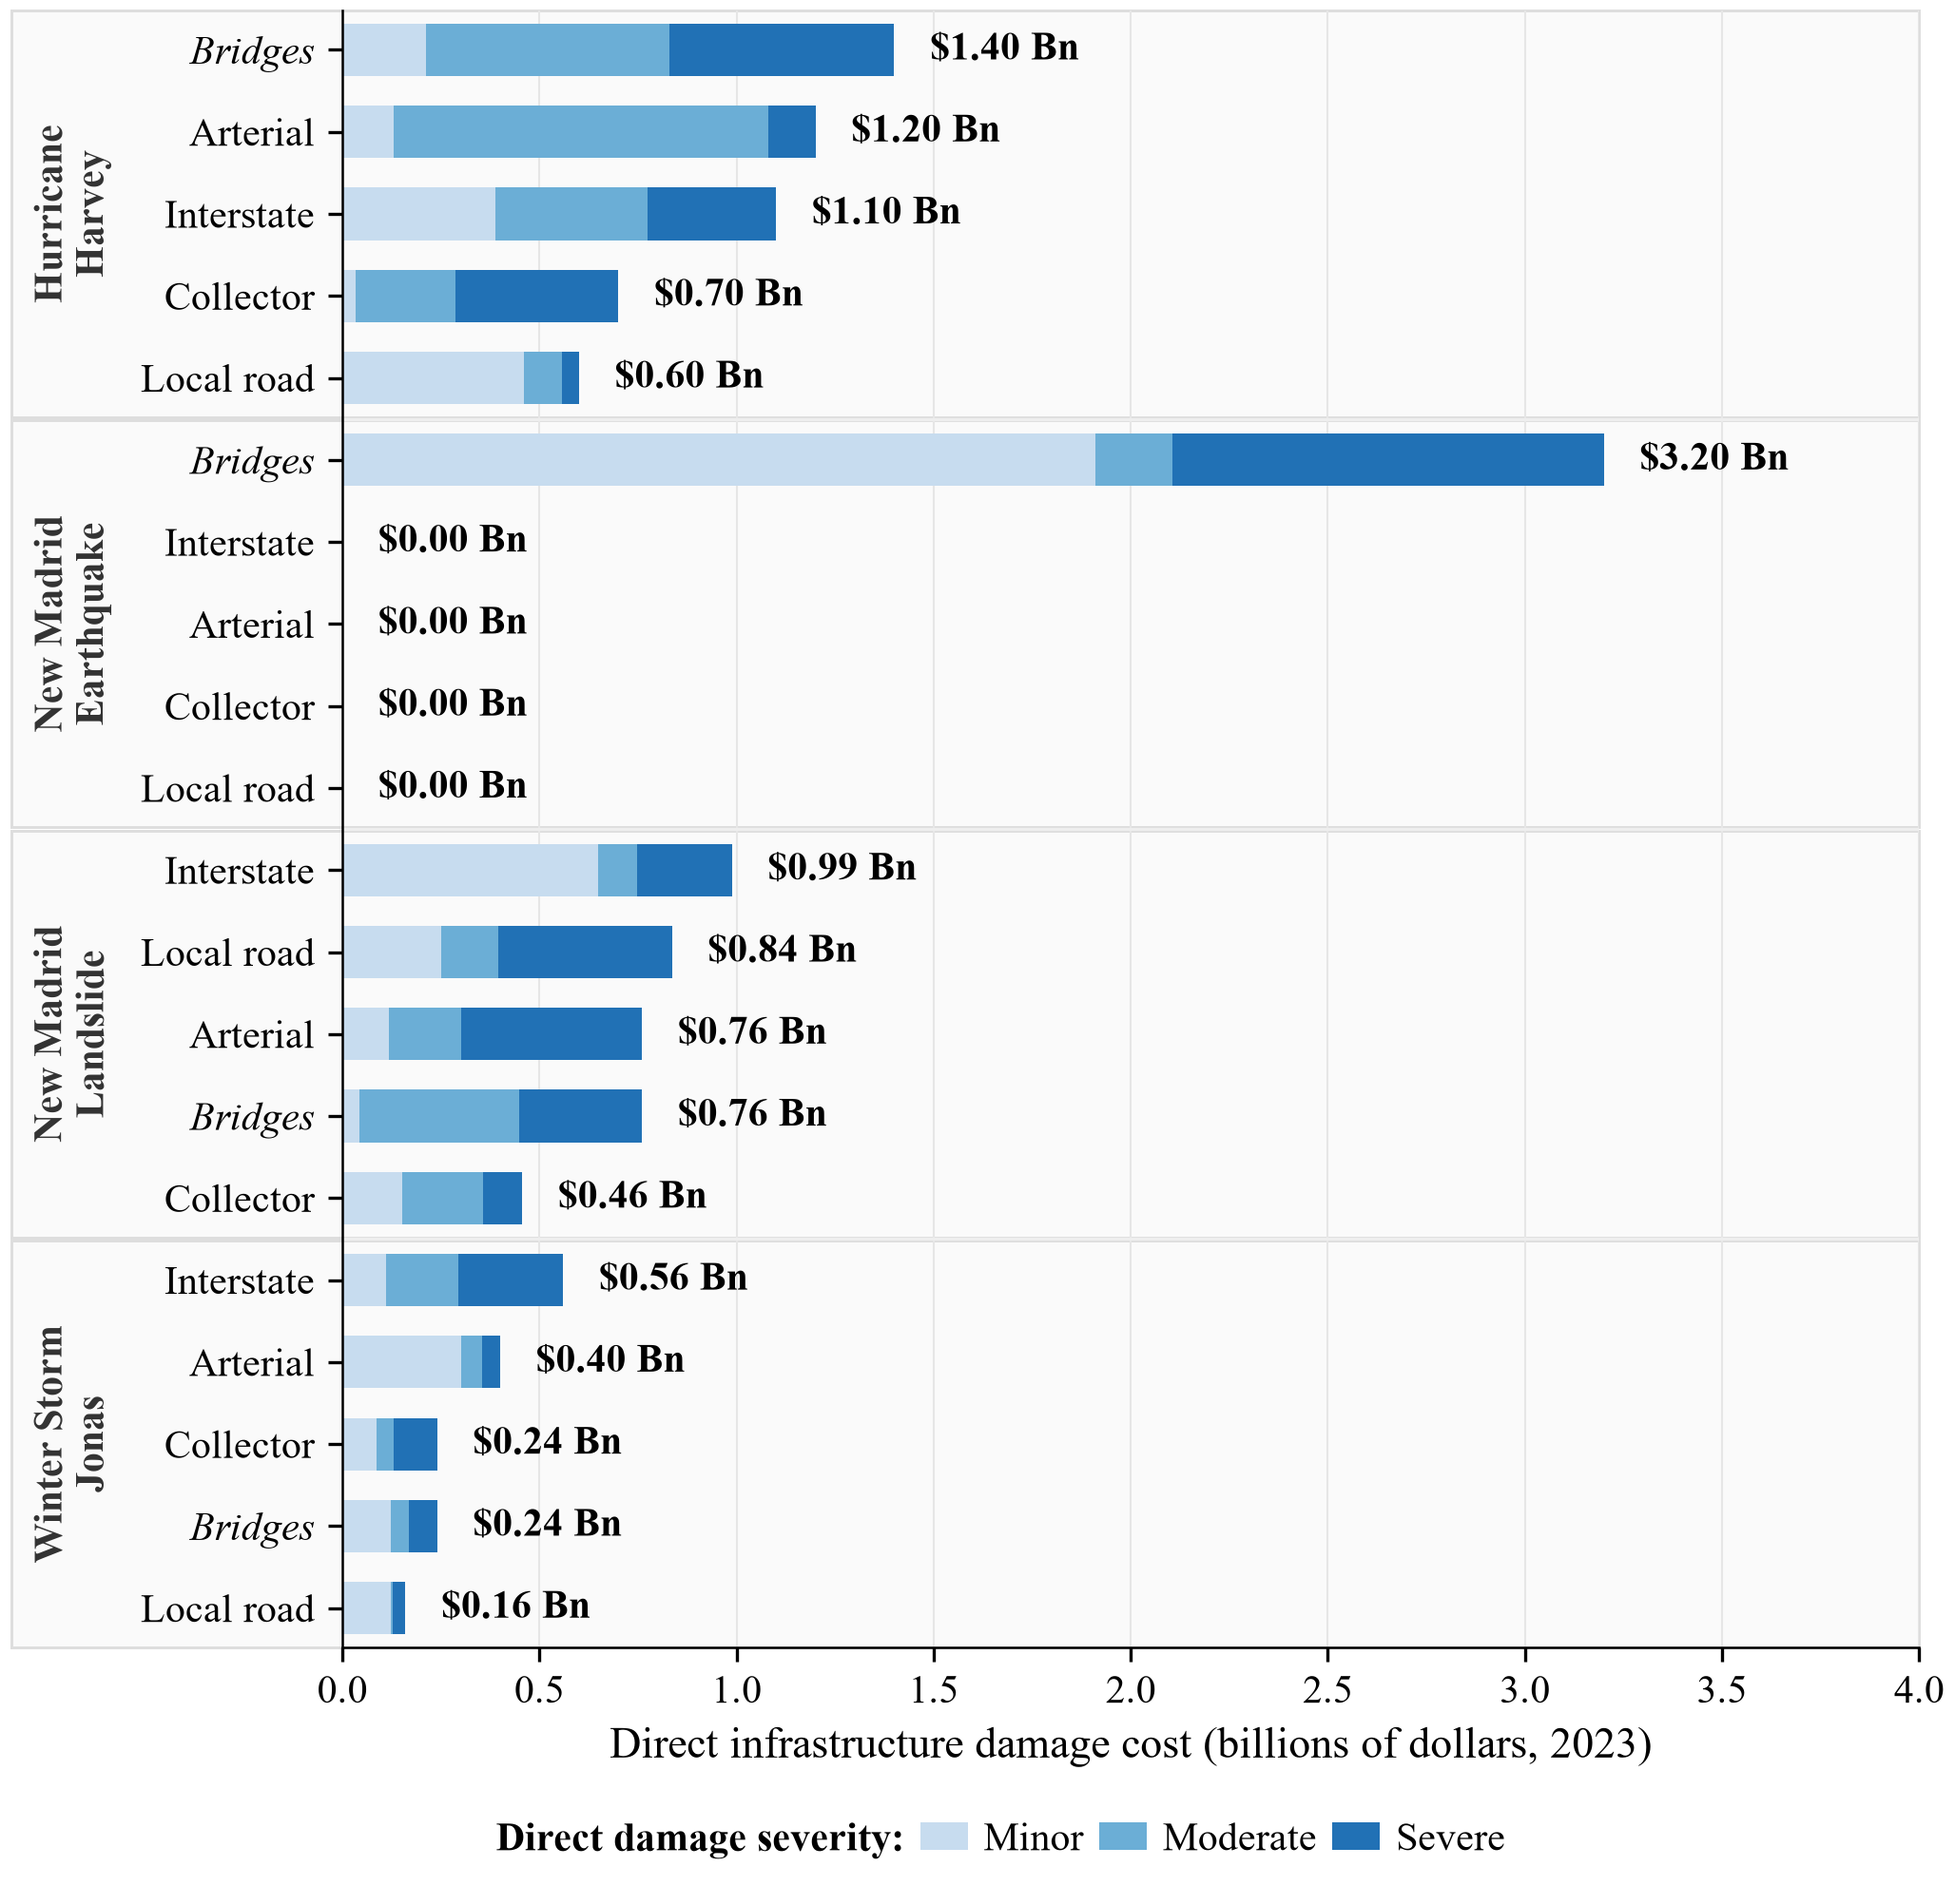
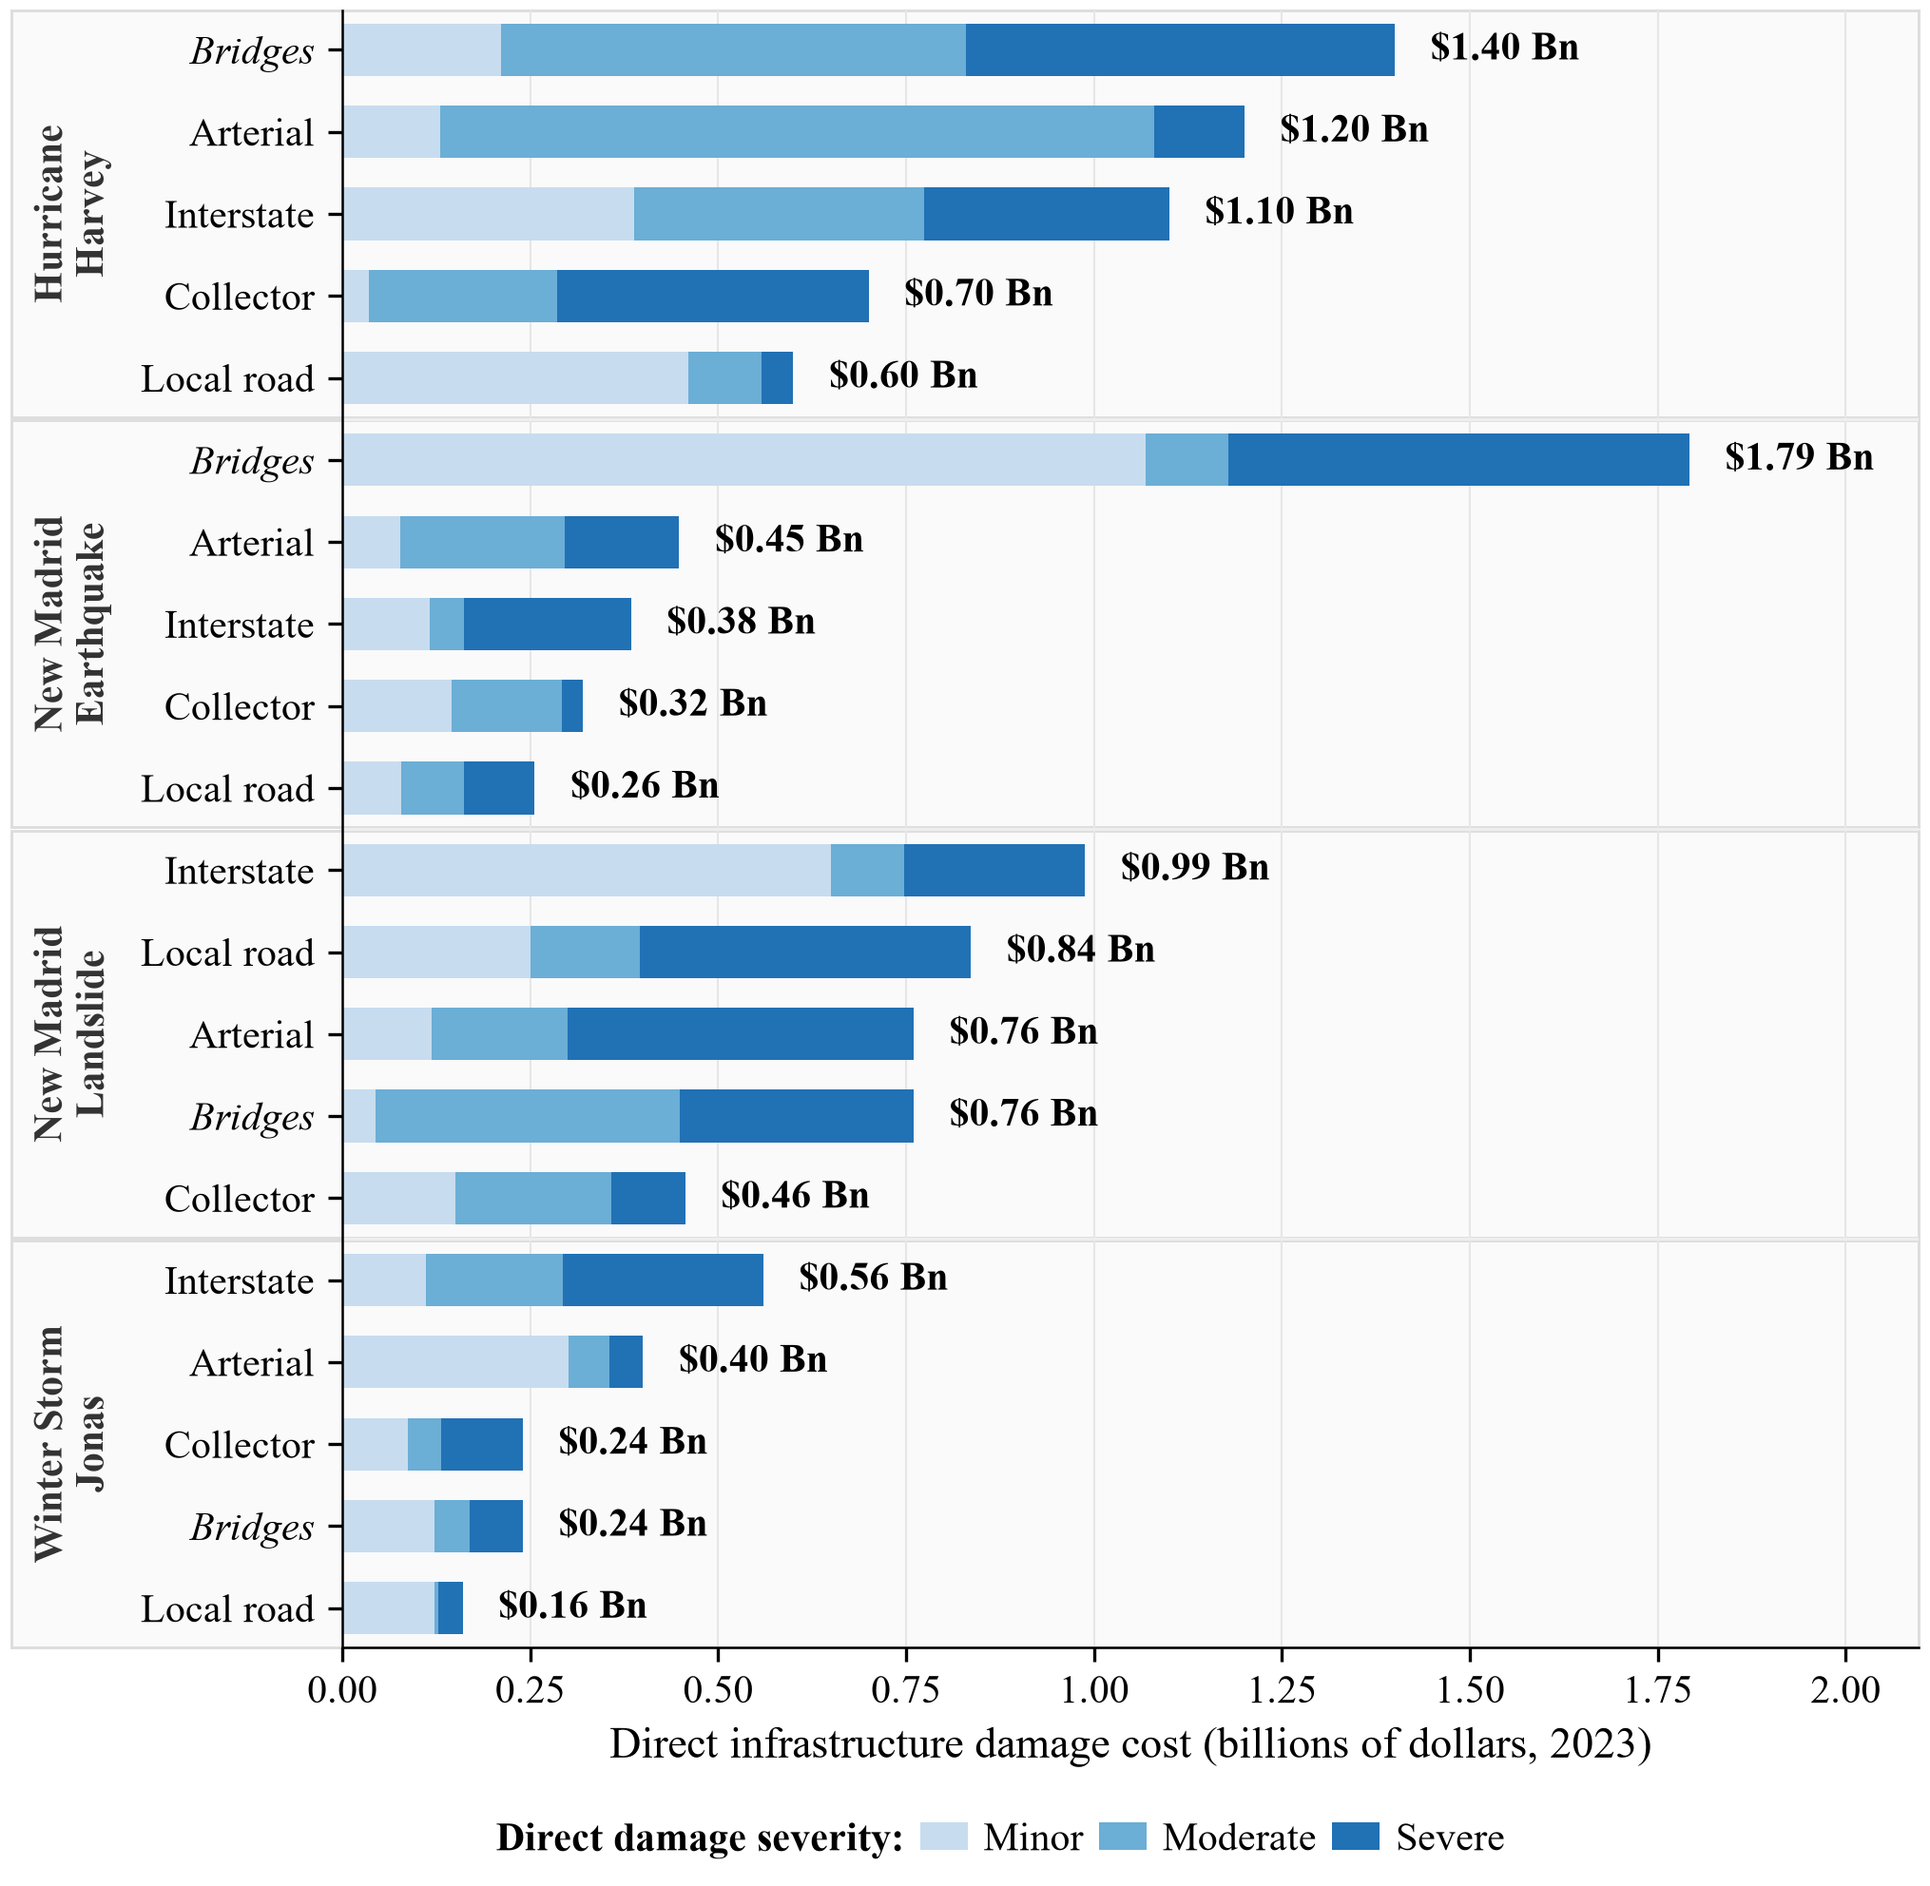
RQ1_1: show all road classes non-zero for earthquake; tighten axis; add generated CAPTIONS.md

diff --git a/results/viz/build_paper_final.py b/results/viz/build_paper_final.py
@@ -28,6 +28,21 @@ def build(modes):
         subprocess.run([sys.executable, str(HERE / 'build_advisor_package.py'), *BUILD_FLAGS[mode]], check=True, cwd=HERE)
 
 
+def write_captions(rows):
+    """Caption sheet for writing, generated from the registry (figure values are placeholders)."""
+    out = ['# Caption sheet for writing (generated from visual_registry.csv; values in the figures are PLACEHOLDERS)\n']
+    for fig, group in rows.groupby('paper_figure', sort=True):
+        out.append(f'\n## {fig}  ({fig}.pdf / {fig}.png)\n')
+        for _, r in group.iterrows():
+            names = ' | '.join(reg.titles(r)) or r.title
+            caveat = r.caveats.split('UPDATE')[-1].strip()[:700]
+            out.append(f'\n- **Panel(s) {r.paper_panel or "-"}: {names}**\n'
+                       f'  - Caption draft: {r.caption}\n'
+                       f'  - Dollar basis: axis {r.axis_dollar_year}; {r.dollar_year_by_component[:300]}\n'
+                       f'  - State in text: {caveat}\n')
+    (FINAL / 'CAPTIONS.md').write_text(''.join(out), encoding='utf-8')
+
+
 def main():
     rows = reg.paper_rows()
     unknown = sorted(set(rows.paper_template) - set(TEMPLATES))
@@ -47,6 +62,7 @@ def main():
                                  build=mode, titles=' | '.join(reg.titles(r)), status=r.status,
                                  axis_dollar_year=r.axis_dollar_year, built=datetime.now().strftime('%Y-%m-%d %H:%M')))
     pd.DataFrame(manifest).to_csv(FINAL / 'MANIFEST.csv', index=False)
+    write_captions(rows)
     print(f'{len(rows)} panel rows -> {FINAL}')
 
 

diff --git a/results/viz/figlib/synthetic_model.py b/results/viz/figlib/synthetic_model.py
@@ -3,7 +3,7 @@
 Every placeholder figure draws from the same per-event totals, so the sheets reconcile by construction:
   total(event)            = direct + cumulative 90-day indirect (rerouting + isolation, passenger + freight)
   RQ1_1 class bars        sum to direct(event); road classes exclude bridge structures (asset split first),
-                          earthquake roads are $0 by design (bridges only); 'Severe' = severe + extensive
+                          every class shown non-zero for now (the model's earthquake road damage is $0 by design, bridges only: revisit); 'Severe' = severe + extensive
   RQ1_2(A) state bars     are the leading states' direct damage (mean with min-max damage-ratio range)
   RQ1_2(B)                = RQ2(B) state sum (states + Rest) = direct + indirect
   RQ2(A) mode bars        sum to the event's indirect cost; Toll is $0 and dropped
@@ -32,7 +32,7 @@ INDIRECT = {
 }
 CLASS_SHARE = {
     "Hurricane Harvey": (.22, .24, .14, .12, .28),
-    "New Madrid Earthquake": (0, 0, 0, 0, 1.0),
+    "New Madrid Earthquake": (.12, .14, .10, .08, .56),  # placeholder: every class shown non-zero (see REVISIT.md)
     "New Madrid Landslide": (.26, .20, .12, .22, .20),
     "Winter Storm Jonas": (.35, .25, .15, .10, .15),
 }

diff --git a/results/viz/build_advisor_package.py b/results/viz/build_advisor_package.py
@@ -154,9 +154,9 @@ def build():
             original_limits = {ax: ax.get_xlim() for ax in fig.axes}
             for ax in fig.axes:
                 ax.xaxis.set_major_locator(mpl.ticker.MaxNLocator(6))
-                ax.set_xlim(0, 4.0 if key == 'RQ1a' else original_limits[ax][1]*1.12)
+                ax.set_xlim(0, 2.0 if key == 'RQ1a' else original_limits[ax][1]*1.12)
                 if key == 'RQ1a':
-                    ax.set_xticks(np.arange(0, 4.01, 0.5))
+                    ax.set_xticks(np.arange(0, 2.01, 0.25))
                 # Totals-only bars need only a small gap above the first row.
                 lo,hi=ax.get_ylim()
                 if lo>hi:
@@ -179,7 +179,7 @@ def build():
             else:
                 fig.subplots_adjust(left=.145 if key=='RQ2a' else .16,right=.97,top=.89,bottom=.39 if key=='RQ3a' else .32)
             if key=='RQ1a':
-                fig.axes[0].xaxis.set_major_locator(mpl.ticker.MultipleLocator(.5))
+                fig.axes[0].xaxis.set_major_locator(mpl.ticker.MultipleLocator(.25))
             if key=='RQ1b':
                 fig.axes[0].xaxis.set_major_locator(mpl.ticker.MultipleLocator(.75))
             if key=='RQ1c':

diff --git a/results/viz/advisor_package/final/CAPTIONS.md b/results/viz/advisor_package/final/CAPTIONS.md
@@ -1,0 +1,44 @@
+# Caption sheet for writing (generated from visual_registry.csv; values in the figures are PLACEHOLDERS)
+
+## RQ1_1  (RQ1_1.pdf / RQ1_1.png)
+
+- **Panel(s) -: Direct cost by road category, per hazard**
+  - Caption draft: Direct infrastructure damage cost, divided into Minor, Moderate, and Severe components, across five road categories for each event.
+  - Dollar basis: axis 2023; Direct = NHCCI-escalated unit costs (CP25 road 2018 Q4, T30 bridge 2024 Q4, tunnel 2008 Q4) to code default 2026 Q1 (resiflow/nhcci.py). Axis says 2023: harmonize every component to 2023 (NHCCI target year + CPI for VOT/fuel) or relabel before publication
+  - State in text: 2026-10-22: Figure = RQ1_1. Model severity ladder has 5 levels (minor..severe incl. extensive); figure shows 3. Earthquake roads are $0 by design (HAZUS: bridges only; Mineral EQ direct is $0 today). Road classes should follow hpms_fclass (local = 0.4% of links); a Bridges bar overlaps road classes.
+
+## RQ1_2  (RQ1_2.pdf / RQ1_2.png)
+
+- **Panel(s) A: (A) Direct Costs by Top States**
+  - Caption draft: Direct infrastructure damage cost for the leading states under each event, with error bars.
+  - Dollar basis: axis 2023; Direct = NHCCI-escalated unit costs (CP25 road 2018 Q4, T30 bridge 2024 Q4, tunnel 2008 Q4) to code default 2026 Q1 (resiflow/nhcci.py). Axis says 2023: harmonize every component to 2023 (NHCCI target year + CPI for VOT/fuel) or relabel before publication
+  - State in text: 2026-10-22: Figure = RQ1_2(A). Error bars are not model uncertainty (single deterministic run); relabel as Direct min-max band or link bootstrap. Top-3 preview; registry asks top-10. State lists are placeholders; Harvey footprint is TX only.
+
+- **Panel(s) B-E: (B) Total Cost | (C) Cost per Exposed Lane-mile | (D) Freight Cost Relative to Annual Freight Value | (E) Cost per Capita**
+  - Caption draft: Total hazard cost (Direct, Rerouting, Isolation) per event: (B) total, (C) per lane-mile, (D) relative to annual freight value, (E) per capita.
+  - Dollar basis: axis 2023; Direct = NHCCI-escalated unit costs (CP25 road 2018 Q4, T30 bridge 2024 Q4, tunnel 2008 Q4) to code default 2026 Q1 (resiflow/nhcci.py) | Rerouting = time at USDOT VOT (2022$) + fuel at 2023-24 pump prices, tolls from FAF5 (year unstated); non-fuel op. cost off | Isolation = isolated flow x USDOT VO
+  - State in text: 2026-10-22: Figure = RQ1_2(B-E). B mixes one-time Direct with daily indirect cost (define horizon). C needs damaged or footprint lane-miles, not statewide. D: numerator should be freight rerouting+isolation, not damage. E: needs affected-area population rule.
+
+## RQ2  (RQ2.pdf / RQ2.png)
+
+- **Panel(s) A: (A) Rerouting and Isolation Costs by Travel Mode**
+  - Caption draft: Passenger and Freight rerouting costs, with Operating, Time, Toll, and Isolation components, shown together for each event.
+  - Dollar basis: axis 2023; Rerouting = time at USDOT VOT (2022$) + fuel at 2023-24 pump prices, tolls from FAF5 (year unstated); non-fuel op. cost off | Isolation = isolated flow x USDOT VOT (2022$) x 24h (alt. $50/trip-day, unstated year). Axis says 2023: harmonize every component to 2023 (NHCCI target year + CPI for VOT/fue
+  - State in text: Compact alternative to separate RQ2 A and B: one shared axis so the Passenger vs Freight gap is visible. Passenger blocked (flag off); Operating/Time/Toll split synthetic; Toll is $0 in real runs.
+
+- **Panel(s) B: (B) Total Cost by Top States**
+  - Caption draft: Total Direct, Rerouting, and Isolation cost for the leading states under each event, with a Rest category.
+  - Dollar basis: axis 2023; Direct = NHCCI-escalated unit costs (CP25 road 2018 Q4, T30 bridge 2024 Q4, tunnel 2008 Q4) to code default 2026 Q1 (resiflow/nhcci.py) | Rerouting = time at USDOT VOT (2022$) + fuel at 2023-24 pump prices, tolls from FAF5 (year unstated); non-fuel op. cost off | Isolation = isolated flow x USDOT VO
+  - State in text: 2026-10-22: Figure = RQ2(C), bar small-multiples fallback (Sankey layout still unresolved). Indirect cost has no state until an attribution rule (e.g. origin state) is chosen; N for Rest open. One shared x-axis label.
+
+## RQ3  (RQ3.pdf / RQ3.png)
+
+- **Panel(s) A-B: (A) Disrupted Freight Tonnage | (B) Cargo Value of Disrupted Freight**
+  - Caption draft: Total disrupted freight by event, shown as tonnage (left) and value (right), with stacks showing the industry mix.
+  - Dollar basis: axis 2023 (value panel; will change); Freight value = FAF5 value (2017$ constant) (FAF5 values are 2017$; relabeled 2023 for consistency in the prototype only, deflate or relabel before use). Tonnage: no price year
+  - State in text: Proposed dual panel (user 2026-10-22). Tonnage is synthetic; value = tons x FAF5 national truck $/ton (real factors, 2017$). Ranking differs by metric (Mining 21% of tons, 0.6% of value; Mixed freight 13% of tons, 45% of value). Real disrupted tons need a pipeline output (current mix files hold flow shares only).
+
+- **Panel(s) C: (C) Cargo Value of Disrupted Freight by Industry in Top States**
+  - Caption draft: Disrupted freight cost by industry for the leading states under each event (five SCTG groups).
+  - Dollar basis: axis 2023; Cost basis undecided (Direct cannot be split by industry); if flow-allocated rerouting+isolation: Rerouting = time at USDOT VOT (2022$) + fuel at 2023-24 pump prices, tolls from FAF5 (year unstated); non-fuel op. cost off | Isolation = isolated flow x USDOT VOT (2022$) x 24h (alt. $50/trip-day, unst
+  - State in text: 2026-10-22: Figure = RQ3(B), becomes (C) if RQ3 A is the tonnage/value pair. Plot filter is cost_type=Direct, which cannot be split by commodity: redefine as disrupted flow, flow-allocated rerouting+isolation, or cargo value. Event-level mix JSONs exist; per-state mix is not produced yet.

diff --git a/results/viz/REVISIT.md b/results/viz/REVISIT.md
@@ -17,3 +17,7 @@
 7. Error bars: define the source (damage-ratio min-max band vs ensemble vs bootstrap). Placeholder uses a +/-12% min-max band.
 8. RQ3: validated commodity totals and baseline denominators; large disrupted share may just reflect large baseline share (exposure ratio plot kept as a supplementary prototype).
 9. Placeholders that look like findings should be removed or flagged before submission (e.g. Harvey/NM landslide event identities).
+
+## Update (RQ1_1)
+- Earthquake road classes are now shown non-zero in the placeholder (no empty class rows). This conflicts with the model, where earthquake road damage is $0 by design (HAZUS bridges only): reconcile before real data.
+- Damage intensity: minor/moderate/severe does not map the same way across hazards (depth for flood, PGA/Sa for earthquake, PGD for landslide, ice/snow for winter storm; model ladder has 5 levels). Need a hazard-consistent intensity normalization or per-hazard severity definitions; the figure currently shows the 3-level display only as a layout example.
